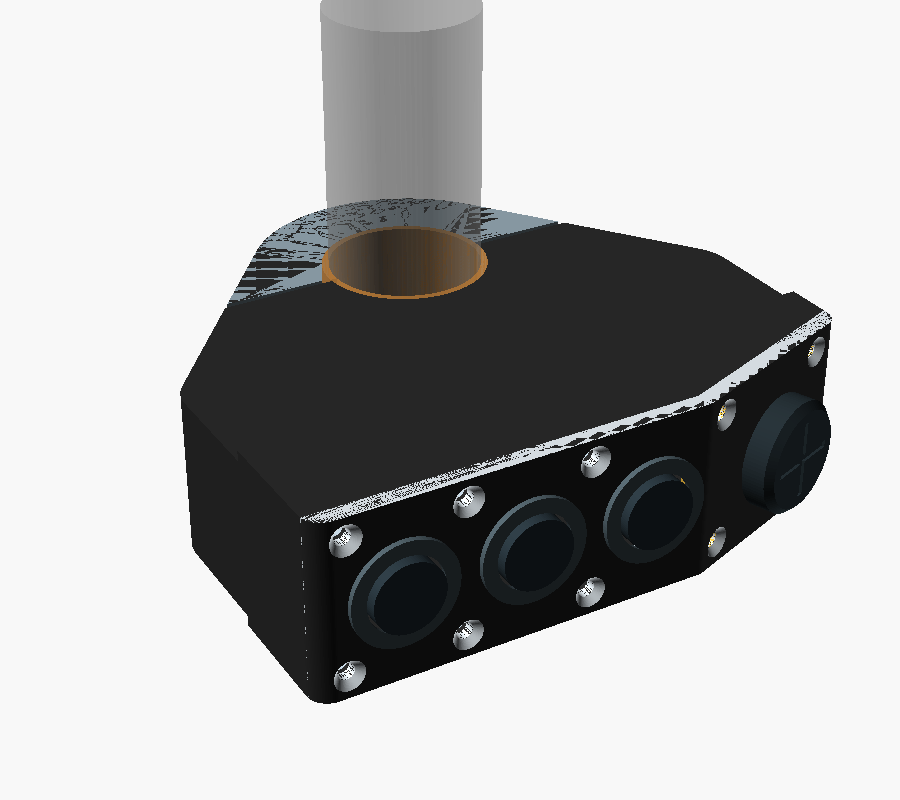
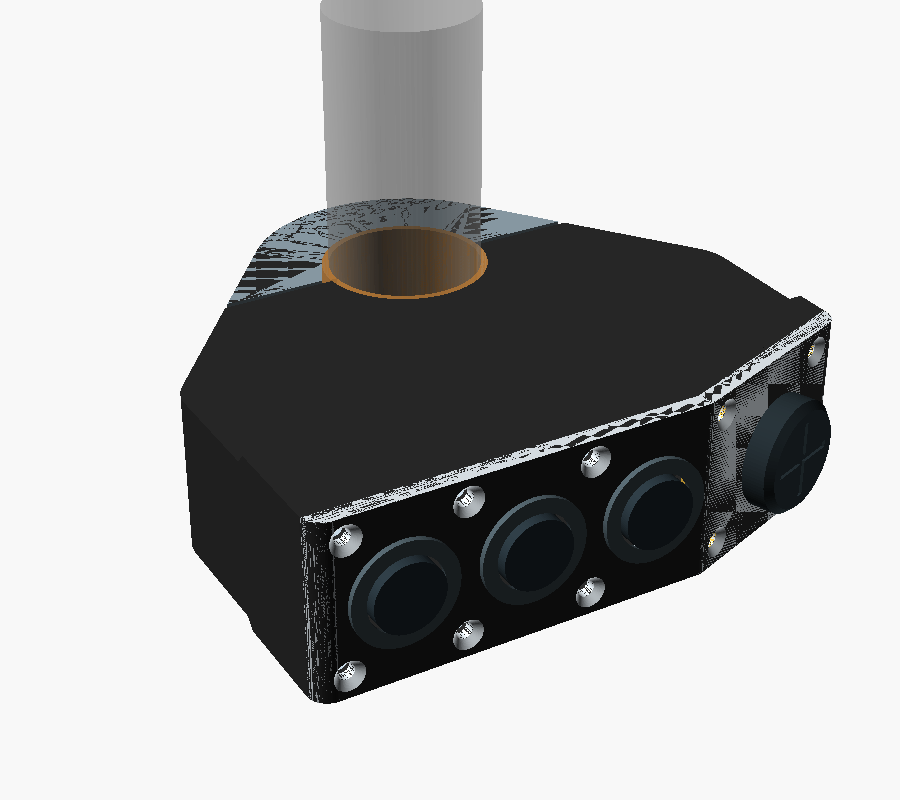
Chamfer the step between the 23 mm clamp and 26 mm pod
Join the wide control end to the narrow clamp part with a 45 degree
chamfer instead of a square step, inside and out. The chamfer faces up
when the housing prints, and the wall stays at least 1.1 mm thick.
Add a rear view to the mechanical concept docs.

diff --git a/docs/mechanical-concept.md b/docs/mechanical-concept.md
@@ -20,6 +20,8 @@ All printed housing parts are still slices of one outer solid: the convex hull o
 
 ![V0.22 section through the middle of the pod.](images/complete-remote-v0.22-section.png)
 
+![V0.22 from the back and below: the 45° chamfer between the 26 mm control end and the 23 mm clamp.](images/complete-remote-v0.22-rear.png)
+
 ![V0.22 interior with the upper axial wall removed. The joystick plate (yellow), the stick and the PCB sit behind the lower facet.](images/complete-remote-v0.22-interior-iso.png)
 
 ![V0.22 cover in its print orientation, on its axial face.](images/complete-remote-v0.22-print-cover.png)
@@ -52,7 +54,7 @@ V0.22 keeps from V0.21 the sheet gasket and the plate that clamps it, and replac
   - The disc has room to tilt 9.5° before it meets the plate.
   - The switches' own springs centre the stick and hold the ball on its seat. There is no separate spring.
 - **Centre press.** Pushing the stick straight in presses all four switches. The firmware reads that chord as the centre press and reports a direction only when a single switch is pressed. A fifth switch would have to sit on the axis, where the ball and disc are. The firmware specification still describes D7 as an optional centre switch; it needs updating for the chord.
-- **Wider control end.** For X below −38 mm, which covers the cover, the buttons and the joystick, the pod is 26 mm wide with 2 mm axial walls, leaving a 22 mm cavity. The clamp ring, the shoulders and the XIAO area keep 23 mm with 1 mm walls. The 23 mm comes from the NAVCOMM manual's minimum free space on the bar between grip and switchgear. It applies to what sits on the bar, not to the control end 40–60 mm from the bar axis. The 2 mm walls give four perimeters instead of two, which seals and prints better. The cover screws stay 3.25 mm from the outer faces, so their bosses intrude 1 mm less into the cavity.
+- **Wider control end.** For X below −38 mm, which covers the cover, the buttons and the joystick, the pod is 26 mm wide with 2 mm axial walls, leaving a 22 mm cavity. A 45° chamfer of 1.5 mm per side (`pod_step`) joins it to the 23 mm part; the walls in the chamfer are at least 1.1 mm thick, and the chamfer faces up when the housing prints. The clamp ring, the shoulders and the XIAO area keep 23 mm with 1 mm walls. The 23 mm comes from the NAVCOMM manual's minimum free space on the bar between grip and switchgear. It applies to what sits on the bar, not to the control end 40–60 mm from the bar axis. The 2 mm walls give four perimeters instead of two, which seals and prints better. The cover screws stay 3.25 mm from the outer faces, so their bosses intrude 1 mm less into the cavity.
 - **Joystick plate.** It is the V0.21 keypad plate with a seat hole, a 0.6 mm pocket in front so the sheet can follow the stick, and 6.25 mm standoffs for the PCB. The four lower cover screws (M2 × 10) still clamp it and the sheet.
 
 ### V0.21 changes, still current
